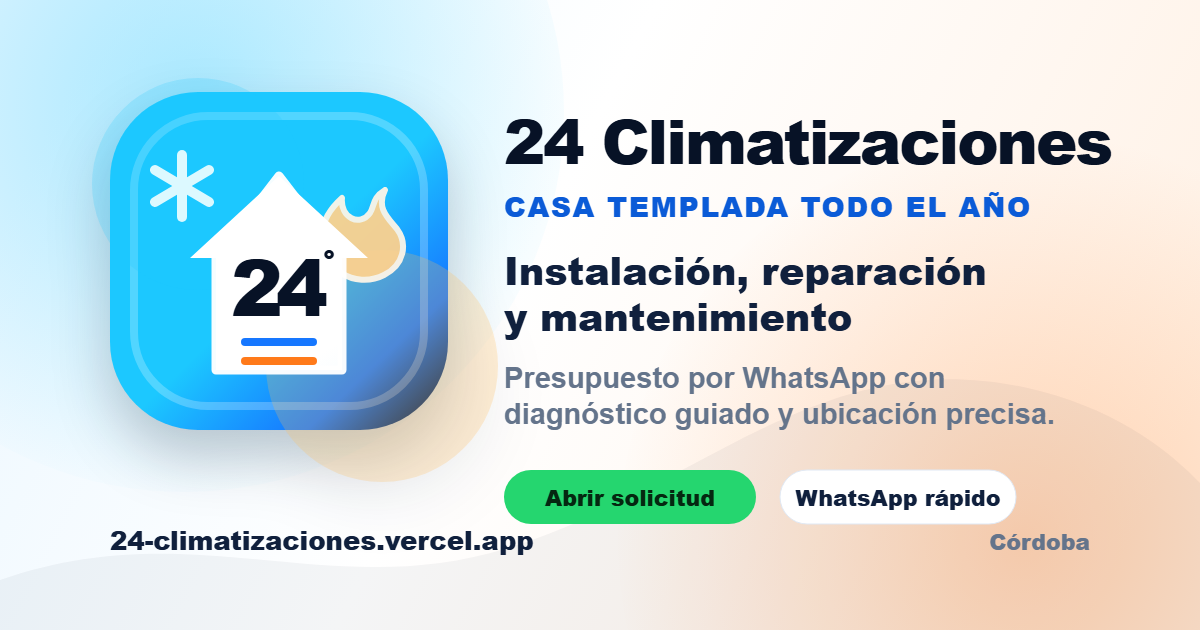
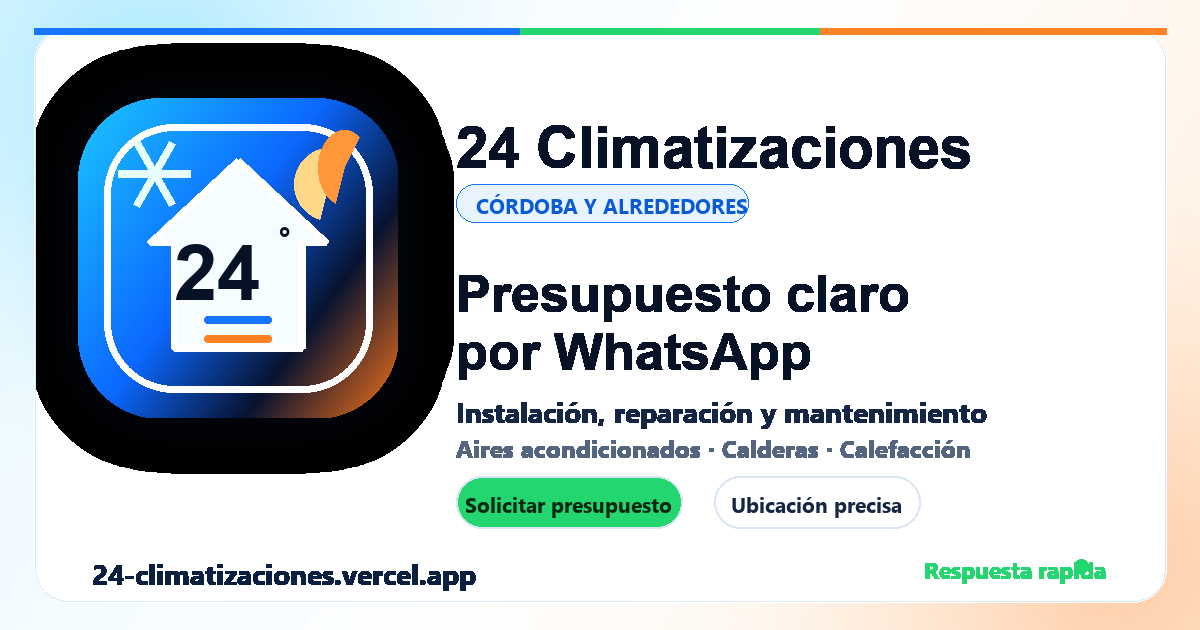
feat: upgrade social preview card

diff --git a/index.html b/index.html
@@ -11,20 +11,20 @@
   <meta property="og:type" content="website" />
   <meta property="og:url" content="https://24-climatizaciones.vercel.app/" />
   <meta property="og:site_name" content="24 Climatizaciones" />
-  <meta property="og:title" content="24 Climatizaciones | Presupuesto rápido por WhatsApp" />
-  <meta property="og:description" content="Contá qué necesitás, marcá tu domicilio y enviá una solicitud clara para cotizar climatización." />
-  <meta property="og:image" content="https://24-climatizaciones.vercel.app/social-preview.png?v=2" />
-  <meta property="og:image:secure_url" content="https://24-climatizaciones.vercel.app/social-preview.png?v=3" />
+  <meta property="og:title" content="24 Climatizaciones | Presupuesto claro por WhatsApp" />
+  <meta property="og:description" content="Instalación, reparación y mantenimiento en Córdoba. Enviá el problema, marcá el domicilio y recibimos una solicitud clara." />
+  <meta property="og:image" content="https://24-climatizaciones.vercel.app/social-preview.png?v=5" />
+  <meta property="og:image:secure_url" content="https://24-climatizaciones.vercel.app/social-preview.png?v=5" />
   <meta property="og:image:type" content="image/png" />
   <meta property="og:image:width" content="1200" />
   <meta property="og:image:height" content="630" />
-  <meta property="og:image:alt" content="Logo de 24 Climatizaciones con casa a 24 grados y servicio por WhatsApp." />
+  <meta property="og:image:alt" content="24 Climatizaciones: presupuesto claro por WhatsApp para instalación, reparación y mantenimiento." />
   <meta property="og:locale" content="es_AR" />
   <meta name="twitter:card" content="summary_large_image" />
-  <meta name="twitter:title" content="24 Climatizaciones | Presupuesto rápido por WhatsApp" />
-  <meta name="twitter:description" content="Instalación, reparación y mantenimiento de climatización con diagnóstico guiado y ubicación precisa." />
-  <meta name="twitter:image" content="https://24-climatizaciones.vercel.app/social-preview.png?v=2" />
-  <meta name="twitter:image:alt" content="Logo de 24 Climatizaciones con casa a 24 grados." />
+  <meta name="twitter:title" content="24 Climatizaciones | Presupuesto claro por WhatsApp" />
+  <meta name="twitter:description" content="Instalación, reparación y mantenimiento en Córdoba con ubicación precisa y solicitud ordenada." />
+  <meta name="twitter:image" content="https://24-climatizaciones.vercel.app/social-preview.png?v=5" />
+  <meta name="twitter:image:alt" content="24 Climatizaciones: presupuesto claro por WhatsApp." />
   <link rel="manifest" href="manifest.webmanifest" />
   <link rel="icon" type="image/svg+xml" href="icon.svg" />
   <link rel="sitemap" type="application/xml" href="/sitemap.xml" />
@@ -43,7 +43,7 @@
     "description":"Instalación, reparación y mantenimiento de aires acondicionados, calderas y calefacción en Córdoba y alrededores. Presupuestos por WhatsApp con domicilio, fotos sugeridas y ruta para el técnico.",
     "telephone":"[phone redacted]",
     "url":"https://24-climatizaciones.vercel.app/",
-    "image":"https://24-climatizaciones.vercel.app/social-preview.png?v=2",
+    "image":"https://24-climatizaciones.vercel.app/social-preview.png?v=5",
     "areaServed":[
       {"@type":"City","name":"Córdoba"},
       {"@type":"AdministrativeArea","name":"Córdoba y alrededores"}

diff --git a/scripts/generate-social-preview.py b/scripts/generate-social-preview.py
@@ -1,0 +1,198 @@
+from PIL import Image, ImageDraw, ImageFont, ImageFilter
+import math
+from pathlib import Path
+
+ROOT = Path(__file__).resolve().parents[1]
+OUT = ROOT / "social-preview.png"
+W, H = 1200, 630
+
+
+def font(name: str, size: int) -> ImageFont.FreeTypeFont:
+    paths = {
+        "regular": r"C:\Windows\Fonts\segoeui.ttf",
+        "bold": r"C:\Windows\Fonts\segoeuib.ttf",
+        "black": r"C:\Windows\Fonts\arialbd.ttf",
+    }
+    return ImageFont.truetype(paths[name], size)
+
+
+def rounded(draw, xy, radius, fill, outline=None, width=1):
+    draw.rounded_rectangle(xy, radius=radius, fill=fill, outline=outline, width=width)
+
+
+def add_shadow(base, xy, radius, blur=22, opacity=90):
+    shadow = Image.new("RGBA", (W, H), (0, 0, 0, 0))
+    d = ImageDraw.Draw(shadow)
+    d.rounded_rectangle(xy, radius=radius, fill=(2, 8, 18, opacity))
+    shadow = shadow.filter(ImageFilter.GaussianBlur(blur))
+    base.alpha_composite(shadow)
+
+
+def text(draw, xy, value, font_obj, fill, **kwargs):
+    draw.text(xy, value, font=font_obj, fill=fill, **kwargs)
+
+
+def gradient_background() -> Image.Image:
+    img = Image.new("RGBA", (W, H), (255, 255, 255, 255))
+    px = img.load()
+    c1 = (232, 248, 255)
+    c2 = (255, 255, 255)
+    c3 = (255, 238, 221)
+    for y in range(H):
+        for x in range(W):
+            t = (x * 0.75 + y * 0.45) / (W * 0.75 + H * 0.45)
+            if t < 0.52:
+                k = t / 0.52
+                c = tuple(int(c1[i] * (1 - k) + c2[i] * k) for i in range(3))
+            else:
+                k = (t - 0.52) / 0.48
+                c = tuple(int(c2[i] * (1 - k) + c3[i] * k) for i in range(3))
+            px[x, y] = (*c, 255)
+    return img
+
+
+def radial(base, center, radius, color, alpha):
+    layer = Image.new("RGBA", (W, H), (0, 0, 0, 0))
+    px = layer.load()
+    cx, cy = center
+    for y in range(max(0, cy - radius), min(H, cy + radius)):
+        for x in range(max(0, cx - radius), min(W, cx + radius)):
+            dist = math.hypot(x - cx, y - cy)
+            if dist <= radius:
+                k = 1 - dist / radius
+                px[x, y] = (*color, int(alpha * (k**1.7)))
+    base.alpha_composite(layer)
+
+
+def draw_logo(base):
+    d = ImageDraw.Draw(base)
+    add_shadow(base, (78, 98, 398, 418), 82, blur=24, opacity=70)
+    logo = Image.new("RGBA", (320, 320), (0, 0, 0, 0))
+    ld = ImageDraw.Draw(logo)
+    for y in range(320):
+        for x in range(320):
+            t = (x + y * 0.72) / 550
+            if t < 0.45:
+                c = (
+                    int(27 * (1 - t / 0.45) + 12 * (t / 0.45)),
+                    int(199 * (1 - t / 0.45) + 104 * (t / 0.45)),
+                    255,
+                    255,
+                )
+            elif t < 0.72:
+                k = (t - 0.45) / 0.27
+                c = (int(12 * (1 - k) + 8 * k), int(104 * (1 - k) + 19 * k), int(255 * (1 - k) + 48 * k), 255)
+            else:
+                k = (t - 0.72) / 0.28
+                c = (int(8 * (1 - k) + 248 * k), int(19 * (1 - k) + 116 * k), int(48 * (1 - k) + 26 * k), 255)
+            logo.putpixel((x, y), c)
+    mask = Image.new("L", (320, 320), 0)
+    md = ImageDraw.Draw(mask)
+    md.rounded_rectangle((0, 0, 320, 320), radius=82, fill=255)
+    logo.putalpha(mask)
+    base.alpha_composite(logo, (78, 98))
+    d.rounded_rectangle((104, 124, 372, 392), radius=70, outline=(255, 255, 255, 58), width=7)
+
+    # house
+    house = [(238, 160), (326, 242), (302, 242), (302, 348), (174, 348), (174, 242), (150, 242)]
+    d.polygon(house, fill=(245, 253, 255, 255))
+    d.line([(238, 160), (326, 242), (302, 242), (302, 348), (174, 348), (174, 242), (150, 242), (238, 160)], fill=(255, 255, 255, 245), width=7, joint="curve")
+    text(d, (174, 229), "24", font("black", 78), (7, 18, 38), anchor=None)
+    text(d, (278, 214), "°", font("bold", 34), (7, 18, 38))
+    d.rounded_rectangle((204, 316, 271, 323), radius=4, fill=(24, 117, 255))
+    d.rounded_rectangle((204, 335, 271, 342), radius=4, fill=(255, 130, 37))
+
+    # snowflake
+    cx, cy = 154, 174
+    for angle in range(0, 180, 60):
+        a = math.radians(angle)
+        x1, y1 = cx + math.cos(a) * 36, cy + math.sin(a) * 36
+        x2, y2 = cx - math.cos(a) * 36, cy - math.sin(a) * 36
+        d.line((x1, y1, x2, y2), fill=(230, 252, 255), width=8)
+    d.ellipse((147, 167, 161, 181), fill=(230, 252, 255))
+
+    # flame
+    d.pieslice((294, 148, 363, 220), 105, 300, fill=(255, 215, 136))
+    d.pieslice((318, 130, 370, 205), 110, 305, fill=(255, 151, 58))
+
+
+def draw_phone(base):
+    d = ImageDraw.Draw(base)
+    add_shadow(base, (764, 117, 1086, 523), 38, blur=26, opacity=68)
+    rounded(d, (764, 117, 1086, 523), 38, (9, 21, 42), (201, 224, 255, 70), 2)
+    rounded(d, (790, 145, 1060, 495), 28, (246, 252, 255), None)
+    rounded(d, (810, 166, 1040, 226), 20, (230, 246, 255), None)
+    d.ellipse((824, 178, 858, 212), fill=(36, 214, 111))
+    text(d, (870, 176), "Solicitud lista", font("bold", 22), (7, 18, 38))
+    text(d, (870, 205), "por WhatsApp", font("regular", 16), (87, 104, 132))
+    for i, color in enumerate([(24, 117, 255), (36, 214, 111), (255, 130, 37)]):
+        y = 260 + i * 58
+        d.ellipse((820, y, 844, y + 24), fill=color)
+        rounded(d, (860, y + 2, 1020, y + 13), 6, (194, 211, 230))
+        rounded(d, (860, y + 23, 980, y + 34), 6, (224, 234, 246))
+    rounded(d, (820, 440, 1026, 470), 15, (36, 214, 111))
+    text(d, (923, 446), "Enviar presupuesto", font("bold", 17), (4, 39, 18), anchor="ma")
+
+
+def draw_whatsapp_card(base):
+    d = ImageDraw.Draw(base)
+    add_shadow(base, (790, 332, 1092, 506), 28, blur=20, opacity=46)
+    rounded(d, (790, 332, 1092, 506), 28, (255, 255, 255), (219, 232, 247), 2)
+    rounded(d, (812, 354, 1070, 398), 18, (230, 248, 239), None)
+    d.ellipse((828, 365, 854, 391), fill=(36, 214, 111))
+    text(d, (868, 360), "Solicitud por WhatsApp", font("bold", 21), (7, 18, 38))
+    text(d, (868, 386), "mensaje ordenado", font("regular", 15), (86, 105, 130))
+    rows = [
+        ("Problema", (24, 117, 255)),
+        ("Domicilio", (36, 214, 111)),
+        ("Fotos sugeridas", (255, 130, 37)),
+    ]
+    for i, (label, color) in enumerate(rows):
+        y = 422 + i * 25
+        d.ellipse((822, y, 834, y + 12), fill=color)
+        rounded(d, (846, y, 1036, y + 12), 6, (219, 232, 247))
+        text(d, (1046, y - 3), label, font("regular", 13), (91, 109, 135))
+
+
+def draw():
+    img = gradient_background()
+    radial(img, (158, 95), 410, (28, 200, 255), 90)
+    radial(img, (1108, 560), 430, (255, 122, 26), 78)
+    d = ImageDraw.Draw(img)
+
+    # subtle brand frame
+    rounded(d, (34, 28, 1166, 602), 34, (255, 255, 255, 0), (219, 232, 247, 210), 2)
+    d.rounded_rectangle((34, 28, 1166, 602), radius=34, outline=(255, 255, 255, 130), width=1)
+    d.rectangle((34, 28, 1166, 34), fill=(24, 117, 255))
+    d.rectangle((520, 28, 820, 34), fill=(36, 214, 111))
+    d.rectangle((820, 28, 1166, 34), fill=(255, 130, 37))
+
+    draw_logo(img)
+    # copy
+    text(d, (456, 115), "24 Climatizaciones", font("black", 58), (7, 18, 38))
+    rounded(d, (456, 184, 748, 222), 19, (231, 243, 255), (24, 117, 255, 82), 1)
+    text(d, (476, 191), "CÓRDOBA Y ALREDEDORES", font("bold", 21), (11, 91, 215))
+    text(d, (456, 264), "Presupuesto claro", font("black", 52), (7, 18, 38))
+    text(d, (456, 322), "por WhatsApp", font("black", 52), (7, 18, 38))
+    text(d, (456, 392), "Instalación, reparación y mantenimiento", font("bold", 28), (20, 38, 68))
+    text(d, (456, 432), "Aires acondicionados · Calderas · Calefacción", font("bold", 24), (84, 101, 128))
+
+    chips = [
+        ("Solicitar presupuesto", (36, 214, 111), (4, 39, 18), 456),
+        ("Ubicación precisa", (255, 255, 255), (20, 38, 68), 714),
+    ]
+    for label, fill, fg, x in chips:
+        w = 226 if label == "Solicitar presupuesto" else 206
+        rounded(d, (x, 476, x + w, 528), 26, fill, (217, 229, 244), 2)
+        text(d, (x + w / 2, 490), label, font("bold", 21), fg, anchor="ma")
+
+    # bottom
+    text(d, (92, 554), "24-climatizaciones.vercel.app", font("bold", 28), (11, 32, 65))
+    text(d, (1106, 554), "Respuesta rapida", font("bold", 23), (36, 214, 111), anchor="ra")
+    d.ellipse((1074, 559, 1088, 573), fill=(36, 214, 111))
+
+    img.convert("RGB").save(OUT, "PNG", optimize=True)
+
+
+if __name__ == "__main__":
+    draw()